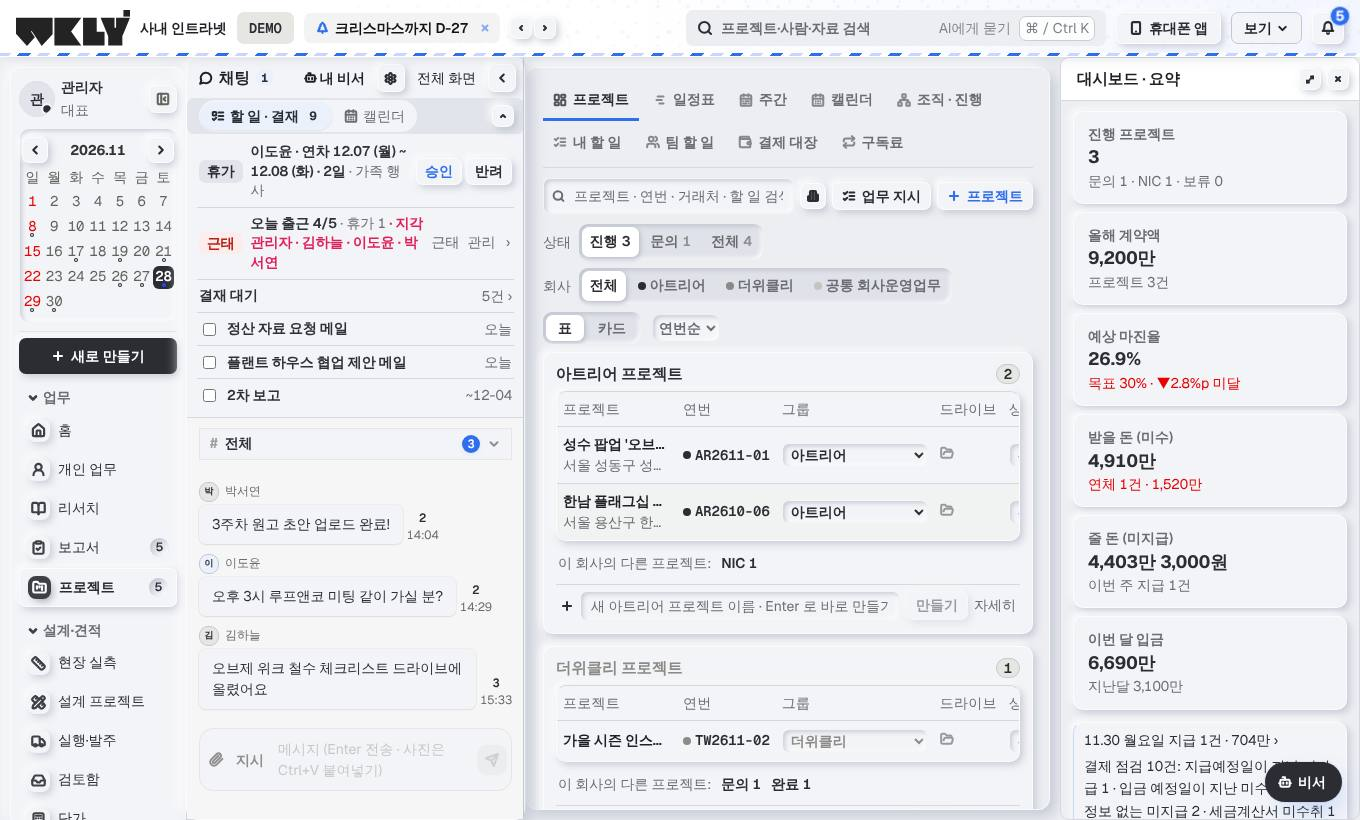
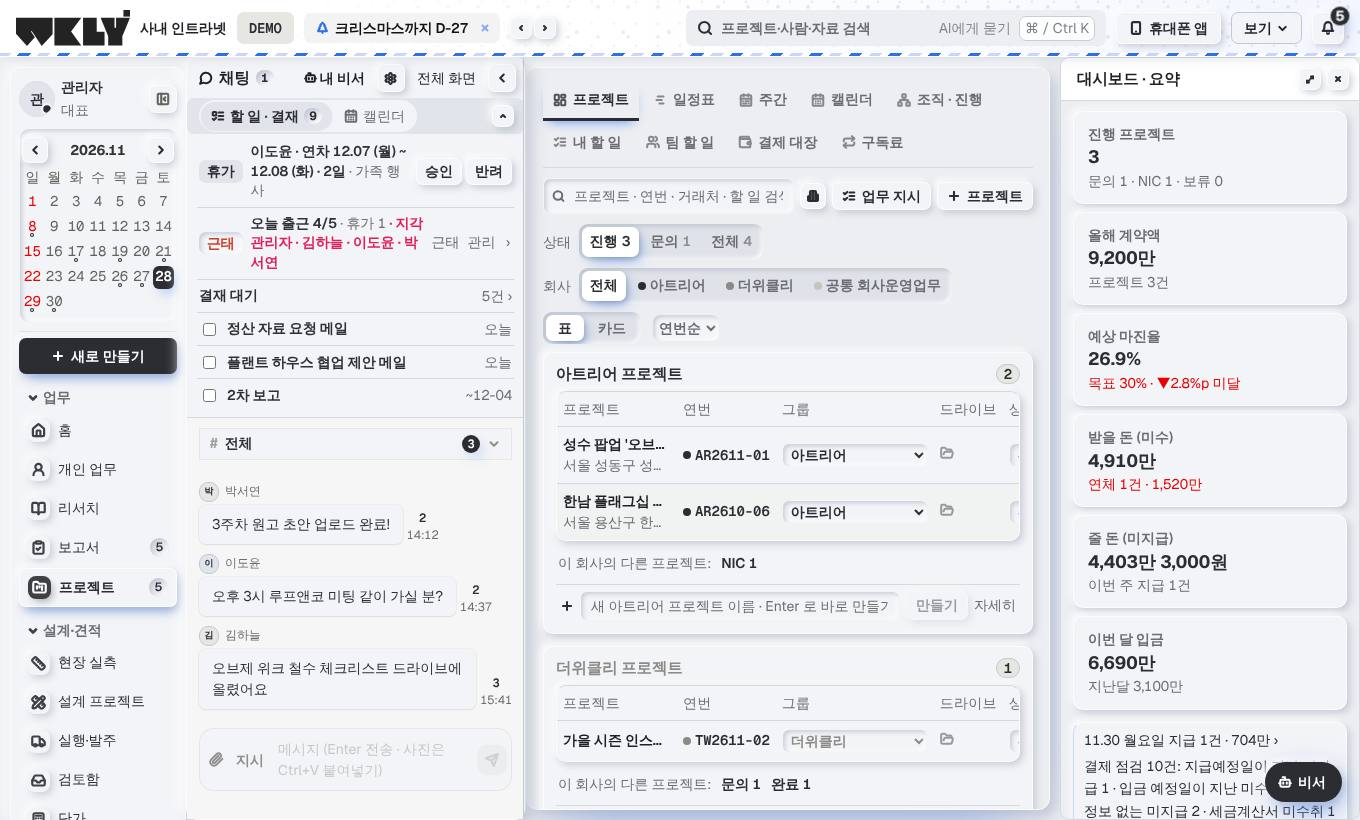
디자인 v9: 모노톤 + 메뉴 색 네온 그림자 · 휴대폰 볼록 오목
- 버튼 · 고른 것 · 숫자 동그라미 · 그래프를 먹색 · 회색으로, 메뉴 색은 그림자 빛으로만
- 색 배지를 회색으로, 빨강은 지연 · 경고 글자만
- 휴대폰 아래 메뉴를 떠 있는 판 + 고른 칸 눌린 홈으로

Claude-Session: https://claude.ai/code/session_01F3gTQwJrgJEzSdbh5GAwru

diff --git a/erp/src/mono.css b/erp/src/mono.css
@@ -315,3 +315,65 @@ html:not([data-theme="dark"]) .app-page .profile .side-item.on > svg { backgroun
 html:not([data-theme="dark"]) .app-page .profile :is(.side-n, .side-item .count) { background: #e1e4ea !important; color: var(--v9-ink) !important; box-shadow: var(--nm-in-sm); }
 html:not([data-theme="dark"]) .app-page .profile :is(.new-btn, .btn-primary) { background: var(--v9-ink) !important; box-shadow: var(--nm-up-sm) !important; }
 html:not([data-theme="dark"]) .app-page .profile button.day.today { background: var(--v9-ink) !important; box-shadow: none; }
+
+/* ================================================================================
+   모노톤 + 네온 그림자 (2026-11-28 대표 '너무 많은 색을 사용하지마 · 전체적으로 모노톤에 그림자를 네온 번지는 효과로 · 각 메뉴마다 다른 색')
+   - 면 · 글자 · 아이콘 · 버튼은 먹색과 회색만. 메뉴 색(--v9-accent)은 **그림자가 번지는 빛**으로만 쓴다(--nm-neon / --nm-neon-sm)
+   - 색 글자 · 색 바탕 버튼 · 색 숫자 동그라미를 쓰지 않는다. 빨강은 지연 · 경고 글자에만
+   ================================================================================ */
+html:not([data-theme="dark"]) {
+  --nm-neon-sm: 4px 6px 14px -5px color-mix(in srgb, var(--v9-accent) 70%, transparent);
+  --nm-neon: 8px 12px 28px -10px color-mix(in srgb, var(--v9-accent) 75%, transparent), 0 0 36px -16px color-mix(in srgb, var(--v9-accent) 80%, transparent);
+  --v9-accent-tint: #e1e4ea; --cal-mine: var(--v9-ink); --cal-mine-tint: #e1e4ea;
+}
+/* 주 버튼 = 먹색 + 메뉴 색 네온 그림자 */
+html:not([data-theme="dark"]) :is(.btn-primary, .new-btn, .today-ok, .btn.primary):not(:disabled) { background: var(--v9-ink) !important; color: #fff !important; box-shadow: var(--nm-up-sm), var(--nm-neon-sm) !important; }
+html:not([data-theme="dark"]) :is(.btn-primary, .new-btn, .today-ok, .btn.primary):not(:disabled):hover { background: #3a3d45 !important; box-shadow: var(--nm-up-sm), var(--nm-neon) !important; }
+html:not([data-theme="dark"]) .app-page .profile :is(.new-btn, .btn-primary) { box-shadow: var(--nm-up-sm), var(--nm-neon-sm) !important; }
+/* 자주 누르는 버튼 · 고른 것 = 먹색 글자, 빛만 메뉴 색 */
+html:not([data-theme="dark"]) :is(.btn-blue, .btn-yellow, .send-btn):not(:disabled) { color: var(--v9-ink); }
+html:not([data-theme="dark"]) :is(.btn-blue, .btn-yellow, .send-btn):not(:disabled):hover { background: var(--nm-face); color: var(--v9-ink); box-shadow: var(--nm-up-sm), var(--nm-neon-sm); }
+html:not([data-theme="dark"]) :is(.btn-outline, .btn-ghost):hover:not(:disabled) { color: var(--v9-ink); box-shadow: var(--nm-up-sm), var(--nm-neon-sm); }
+html:not([data-theme="dark"]) :is(.chip.active, .chip.on, .seg button.on, .right-tabs button.on, .ads-subnav button.active, .ads-nav button.active) { color: var(--v9-ink) !important; font-weight: 600; }
+html:not([data-theme="dark"]) :is(.chip.active, .chip.on, .ads-subnav button.active) { box-shadow: var(--nm-in-sm), var(--nm-neon-sm) !important; }
+html:not([data-theme="dark"]) .ads-nav button.active { box-shadow: var(--nm-up-sm), var(--nm-neon-sm); } html:not([data-theme="dark"]) .ads-nav button.active svg { color: var(--v9-ink); }
+html:not([data-theme="dark"]) :is(.tab.on, .tab.active, .view-tab.on) { border-bottom-color: var(--v9-ink); box-shadow: 0 6px 12px -6px color-mix(in srgb, var(--v9-accent) 80%, transparent); }
+html:not([data-theme="dark"]) :is(.ads-segment, .seg, .right-tabs) button:is(.active, .on) { box-shadow: 1px 2px 5px rgba(120, 128, 148, .45), var(--nm-neon-sm) !important; }
+/* 숫자 동그라미 · 아이콘 칸 = 먹색 */
+html:not([data-theme="dark"]) :is(.bell .count, .m-dot, .q2-badge, .count, .view-tab-n) { background: var(--v9-ink) !important; color: #fff !important; box-shadow: var(--nm-neon-sm) !important; }
+html:not([data-theme="dark"]) .section-head .count, html:not([data-theme="dark"]) .side-n { background: #e1e4ea !important; color: var(--v9-ink) !important; box-shadow: var(--nm-in-sm) !important; }
+html:not([data-theme="dark"]) :is(.ins-icon, .home-kpi-tile) { background: var(--nm-face) !important; color: var(--v9-ink) !important; box-shadow: var(--nm-up-sm); }
+html:not([data-theme="dark"]) :is(.ins-icon, .home-kpi-tile) svg { color: var(--v9-ink) !important; }
+html:not([data-theme="dark"]) .dash-kpi.is-key .dash-kpi-ic { background: var(--v9-ink); color: #fff; box-shadow: var(--nm-neon-sm); }
+html:not([data-theme="dark"]) :is(.section-head, .sec-head)::before { background: var(--v9-ink); box-shadow: 3px 0 10px color-mix(in srgb, var(--v9-accent) 80%, transparent); }
+html:not([data-theme="dark"]) :is(button.day.today, .week-day.today .week-day-h .dd) { background: var(--v9-ink) !important; box-shadow: var(--nm-neon-sm) !important; }
+/* 떠 있는 것의 그림자에 메뉴 색이 번짐: 고른 메뉴 줄 · 오늘 · 가장 중요한 카드 · 올린 카드 · 본문 판 */
+html:not([data-theme="dark"]) .app-page .profile .side-item.on { box-shadow: var(--nm-up-sm), 4px 6px 14px -5px color-mix(in srgb, var(--mc, var(--v9-accent)) 70%, transparent); }
+html:not([data-theme="dark"]) :is(.dash-kpi.is-key, .week-day.today, .dash-day.is-today) { box-shadow: var(--nm-up-sm), var(--nm-neon); }
+html:not([data-theme="dark"]) :is(a.home-kpi, a.dash-kpi, .pc-card, .pboards-item, .proj-card, .sales-pipe-step, .gov-tile, .ai-card):hover { box-shadow: var(--nm-up), var(--nm-neon); }
+html:not([data-theme="dark"]) .app-page .main { box-shadow: var(--nm-up), 0 24px 60px -36px color-mix(in srgb, var(--v9-accent) 85%, transparent); }
+html:not([data-theme="dark"]) :is(.input, .select, .textarea, input, select, textarea):focus { box-shadow: var(--nm-in-sm), 0 0 0 2px color-mix(in srgb, var(--v9-accent) 30%, transparent), var(--nm-neon-sm) !important; }
+html:not([data-theme="dark"]) .ast-fab { box-shadow: var(--nm-up-sm), var(--nm-neon) !important; }
+/* 색 글자 · 색 배지 줄이기: 노랑 · 주황 · 분홍 배지는 회색, 빨강은 글자만 */
+html:not([data-theme="dark"]) :is(.badge, .tag, .pill):not(.red):not(.late):not(.bad) { background: #e1e4ea; color: var(--v9-ink); border-color: transparent; }
+html:not([data-theme="dark"]) :is(.badge.red, .badge.late, .tag.red) { background: var(--nm-face); color: #c8442f; box-shadow: var(--nm-in-sm); border-color: transparent; }
+/* 홈 그래프: 끝낸 일 = 먹색, 마감 예정 = 회색, 지연 = 산호색 하나 — 빛만 메뉴 색 */
+html:not([data-theme="dark"]) :is(.dash-flow-col i.f-done, .dash-legend i.f-done, .dash-vbar-track i.s-active) { background: linear-gradient(160deg, #4a4d57, var(--v9-ink)); box-shadow: 1px 2px 5px -1px color-mix(in srgb, var(--v9-accent) 75%, transparent); }
+html:not([data-theme="dark"]) :is(.dash-flow-col i.f-due, .dash-legend i.f-due) { background: #b9bec9; box-shadow: none; }
+html:not([data-theme="dark"]) .dash-flow-col.is-today i.f-due { background: linear-gradient(160deg, #4a4d57, var(--v9-ink)); box-shadow: 0 0 0 2px color-mix(in srgb, var(--v9-accent) 30%, transparent), 2px 4px 12px color-mix(in srgb, var(--v9-accent) 80%, transparent); }
+html:not([data-theme="dark"]) .dash-flow-col.is-today span { color: var(--v9-ink); }
+
+/* 휴대폰 (2026-11-28 대표 '휴대폰 화면도 볼록 오목 디자인으로'): 아래 메뉴 = 떠 있는 판, 고른 칸 = 눌린 홈 + 메뉴 색 빛 */
+@media (max-width: 760px) {
+  html:not([data-theme="dark"]) .m-nav { background: var(--nm-face) !important; border-top: 1px solid rgba(255, 255, 255, .8) !important; box-shadow: 0 -8px 20px -8px var(--nm-lo) !important; padding-top: 6px; }
+  html:not([data-theme="dark"]) .m-nav > a, html:not([data-theme="dark"]) .m-nav > button { color: #6b6d72 !important; border-radius: 9px; background: transparent !important; }
+  html:not([data-theme="dark"]) .m-nav > .on { background: var(--nm-face) !important; color: var(--v9-ink) !important; font-weight: 600; box-shadow: var(--nm-in-sm), var(--nm-neon-sm); }
+  html:not([data-theme="dark"]) .m-nav svg { stroke-width: 2.1; }
+  html:not([data-theme="dark"]) :is(.m-more, .m-more-grid > a) { background: var(--nm-face); border-color: rgba(255, 255, 255, .7); }
+  html:not([data-theme="dark"]) .m-more { box-shadow: 0 -12px 30px -10px var(--nm-lo); border-radius: 14px 14px 0 0; }
+  html:not([data-theme="dark"]) .m-more-grid > a { box-shadow: var(--nm-up-sm); border-radius: 10px; color: var(--v9-ink); }
+  html:not([data-theme="dark"]) .m-more-grid > a.on { box-shadow: var(--nm-in-sm), var(--nm-neon-sm); }
+  html:not([data-theme="dark"]) .app-page :is(.main, .web-panel) { border-radius: 0 !important; box-shadow: none; border: 0; background: var(--nm-bg); }
+  html:not([data-theme="dark"]) .app-page .topbar { background: var(--nm-face); box-shadow: 0 6px 14px -8px var(--nm-lo); }
+  html:not([data-theme="dark"]) :is(.box, .stat, .kpi, .card, .home-kpi, .today-card, .checkin-card, .brief, .rd-box, .pc-card, .proj-card, .dash-kpi, .dash-card) { box-shadow: 4px 4px 10px var(--nm-lo), -4px -4px 10px var(--nm-hi); }
+}

diff --git a/CLAUDE.md b/CLAUDE.md
@@ -112,7 +112,7 @@ Codex 공동 개발은 끝났다(2026-11-16 종료 · 2026-11-20 대표 지시 '
   - `src/styles.css` : 디자인 토큰 · WKLY v7 디자인 시스템 (사각 모서리, 글자 크기 단계 `--fs-cap 12 · sm 12.5 · body 13.5 · sub 14.5 · title 16 · num 19 · hero 28` (2026-11-09 위계 다시 잡음 · 맨 아래 :root 가 최종값 · 터치 화면은 반 단계 큼))
   - (아래 글자 위계의 굵기 800 · 700 은 2026-11-28 디자인 v9 에서 700 · 600 으로, 색 값은 mono.css 토큰으로 바뀜 — 크기 3단계 · px 직접 쓰지 않기 규칙은 그대로)
   - **글자 위계 (2026-11-17 대표 지시 '전체 공통사항 · 글자 크기는 타이틀 · 본문 · 강조 3가지만 · 색 구분과 볼드 규칙') — 새 화면도 반드시 지킬 것**: `src/type.css` 를 main.tsx 맨 끝에서 읽어 앞의 모든 단계를 덮어씀. 크기 3개 = 타이틀 `--t-title` 18px(제목 · 큰 숫자) · 강조 `--t-em` 15.5px(소제목 · 이름 줄) · 본문 `--t-body` 14px(나머지 전부 — 날짜 · 메타 · 배지 포함, 터치 화면 18.5/16/15) · 예전 토큰은 cap/sm/small/body → 본문, sub → 강조, title/num/hero → 타이틀로 이어짐. CSS 에 px 글자 크기를 새로 쓰지 말고 var(--fs-body | --fs-sub | --fs-title) 만 쓸 것(2026-11-17 에 94곳 바꿈 · 예외는 알림 숫자 동그라미 .side-n · .q2-badge · .bell .count 12px). 굵기 3개 = 800 타이틀 · 700 강조 · 400 본문(500 · 600 · 650 · 750 안 씀 · 76곳 바꿈). 색 = --tx-title #151d18 · --tx-body #222a25 · --tx-sub #535c56(보조는 크기 대신 색으로 낮춤 · --gray 도 이 색) · --tx-key #1f6b4a(누를 수 있는 것 · 고른 것) · 빨강은 지연 · 경고만. 묶음 클래스 .tx-title · .tx-em · .tx-body · .tx-sub · .tx-key. 차트 SVG 글자(charts.tsx 등)는 그대로
-  - **디자인 v9 모노톤 + 네온 빛 (2026-11-28 대표가 핀터레스트 참고 화면 넷을 골라 '이것들을 조합해서 디자인잡아 · 인트라넷 디자인 전체를 변경해 · 모노톤과 네온 효과' → '남은 화면들도 모노톤으로 · 폰트와 디자인규칙까지 모두 변경해 · 대시보드또한 디자인 배치 다시' · '색은 첨부이미지와 같이 네온 효과' · '빛이 새어나가는 효과를 잘 만들어') — 규칙 문서 `erp/docs/DESIGN_V9.md` · 새 화면도 반드시 이 규칙**: `src/mono.css`(main.tsx 맨 끝)가 토큰을 정함. ① 색 = 회색 계열 하나(바탕 #f0f0ee · 흰 카드 · 먹색 #141414 = 고른 것 · 막대) + 네온 파랑 `--v9-accent` #1f4dff 하나 · 빨강 · 노랑은 지연 · 경고만 · 초록 점은 '정상'만 ② 네온 = 가장자리에서 오른쪽 아래로 새어 나가는 파랑 빛 `--glow-1/2/3` · `--neon-soft` — 주 버튼 · 고른 것 · 오늘 · 가장 중요한 숫자 하나 · 누를 수 있는 카드 hover 에만, 글자색으로는 안 씀 ③ 글꼴 = 영문 · 숫자 Geist · 한글 Pretendard · 큰 숫자 · 연번 Geist Mono(구글 폰트 · index.html) · 크기 18 / 15.5 / 14 그대로 + 큰 숫자 `--t-num` 24 · **굵기 700 / 600 / 400**(예전 800 / 700 을 CSS 전체에서 한 단계씩 내림) ④ 모서리 카드 14 · 버튼 10 · 알약 ⑤ 카드 틀 = 회색 머리 + 흰 본문. 같은 날 **모든 CSS 의 굳은 색을 회색으로 바꿈**(초록 · 미색 · 보라 → 같은 밝기 회색 · 파랑 → `--v9-accent` / `-tint` · '화면 어둡게' 규칙 줄은 그대로 · 빨강 · 주황 · 노랑은 그대로) — **새 CSS 에 색 값을 직접 쓰지 말고 토큰을 쓸 것.** 구분 색은 `--div-ar/tw/rs`(먹색 · 회색 · 연회색) · 달력 내 업무는 네온 파랑. 홈 대시보드 새 배치(`pages/Dashboard.tsx` · `.css`): 인사 + 주 버튼 → 숫자 카드 넷(작은 막대 · 아래 설명 줄 · 첫 카드에 빛) → '업무 흐름' 점 격자(지난 2주 끝낸 일 · 앞으로 2주 마감 · 오늘 기둥에 빛 · `lib/dashboard.ts` dayFlow) + 팀원 세로 막대 → 마감이 가까운 프로젝트 표(진행 막대 · 상태 알약) → 앞으로 7일 · 구분별 → 진행 프로젝트 카드. 같은 날 2차 '부드럽게'(대표 '아직 안 바꾼 곳들도 모두 모노톤으로' · '디자인 ui,ux도 바꿔 · 색상의 사용도 수정하고 · 부드러운 느낌'): 새까만 색 대신 부드러운 먹색 `--v9-ink` #2b2d33 · 고른 것은 검은 알약 대신 연한 파랑 바탕 · 자주 누르는 버튼(.btn-blue 등)은 연한 파랑 · 테두리 대신 옅은 그림자 · 카드 18 / 버튼 12 · **styles.css 의 '모든 모서리 0 !important' 고정을 없앰(다시 넣지 말 것)** · 빛은 테 없이 넓게 · 0.2초 전환 · 창 뒤 뿌옇게. 차트(LedgerStats · MarketingFlow) · 화이트보드(미니맵 · 커서 · Excalidraw 색) · 설계(제안 보드 견본 색 · 3D 바닥 · 도면 바탕) · 기념일 장식 띠 · PC 오프라인 화면(desktop/offline.html — 다음 PC 프로그램 릴리스 때 반영)도 회색 + 네온 파랑. 그대로 둔 것: 실제 자재 색(3D · 마감재) · 거래처에 나가는 것(제안서 슬라이드 · 영업 메일 · 카드뉴스 · 광고 이미지). 같은 날 3차 '선명하게 · 메뉴마다 다른 색'(대표 '광고 화면 기간 고르기 칸과 묶음 탭도 고쳐 · 아이콘과 배경들 각각의 카드들의 선구분을 선명하게 · 색은 각 메뉴마다 다른 색' · 참고 Product UI Styleguide): **강조색 `--v9-accent` 는 메뉴마다 다름**(`lib/menuColors.ts` · Shell 이 지금 메뉴 색을 html 에 넣음 · 빛 · 연한 바탕 · 주 버튼은 color-mix 로 계산 — CSS 에 파랑을 직접 쓰지 말 것 · 새 메뉴는 색 한 줄 추가) · 왼쪽 메뉴는 대표 지시로 다시 모노톤(아이콘 · 고른 줄 · 숫자 칸 먹색 — 메뉴 색은 화면 안에서만) · 카드는 흰 바탕 + 1px 선 #dbdbd7 + 옅은 그림자(바탕 #eeeeeb) · 광고 묶음 탭 = 홈 안의 흰 카드 · 기간 고르기 = 알약. 같은 날 4차 '볼록 · 오목'(대표가 뉴모피즘 참고 그림 두 장을 보내 '이 ui도 사용해' · '이것도 넣어'): 면은 바탕과 거의 같은 밝은 회색 · 구분은 왼쪽 위 빛 + 오른쪽 아래 그림자(`--nm-up` 떠 있음 = 카드 · 버튼 / `--nm-in` 눌림 = 입력 칸 · 고른 칩 · 고른 메뉴 줄) · 구간 고르기는 회색 홈 + 흰 알약 · 켜고 끄는 설정은 체크박스에 className `nm-switch`(스위치 모양). 같은 날 5차(대표 '나머지 화면들도 모두 볼록 오목 디자인으로 · 모서리 라운드 좀 더 각지게'): 흰 바탕을 없앰 — `--white` · `--v8-card` 와 모든 CSS 의 흰 바탕 165곳을 `var(--nm-face)` 로(**새 CSS 에 `background: #fff` 를 쓰지 말 것**) · 테두리 있는 묶음 칸 30여 종을 떠 있는 모양으로 · 모서리 카드 10 / 버튼 · 입력 · 칩 7 / 큰 판 12(알약 · 원은 스위치와 숫자 동그라미만). 사용 안내 사진 13장 · 영상 3개 다시 찍음 · 안내 글(guides.ts 두 곳)의 홈 · 할 일(/my) · 일정(/projects?view=calendar)을 새 구조에 맞춤(agent-chat 쪽은 다음 배포 때 반영).
+  - **디자인 v9 모노톤 + 네온 빛 (2026-11-28 대표가 핀터레스트 참고 화면 넷을 골라 '이것들을 조합해서 디자인잡아 · 인트라넷 디자인 전체를 변경해 · 모노톤과 네온 효과' → '남은 화면들도 모노톤으로 · 폰트와 디자인규칙까지 모두 변경해 · 대시보드또한 디자인 배치 다시' · '색은 첨부이미지와 같이 네온 효과' · '빛이 새어나가는 효과를 잘 만들어') — 규칙 문서 `erp/docs/DESIGN_V9.md` · 새 화면도 반드시 이 규칙**: `src/mono.css`(main.tsx 맨 끝)가 토큰을 정함. ① 색 = 회색 계열 하나(바탕 #f0f0ee · 흰 카드 · 먹색 #141414 = 고른 것 · 막대) + 네온 파랑 `--v9-accent` #1f4dff 하나 · 빨강 · 노랑은 지연 · 경고만 · 초록 점은 '정상'만 ② 네온 = 가장자리에서 오른쪽 아래로 새어 나가는 파랑 빛 `--glow-1/2/3` · `--neon-soft` — 주 버튼 · 고른 것 · 오늘 · 가장 중요한 숫자 하나 · 누를 수 있는 카드 hover 에만, 글자색으로는 안 씀 ③ 글꼴 = 영문 · 숫자 Geist · 한글 Pretendard · 큰 숫자 · 연번 Geist Mono(구글 폰트 · index.html) · 크기 18 / 15.5 / 14 그대로 + 큰 숫자 `--t-num` 24 · **굵기 700 / 600 / 400**(예전 800 / 700 을 CSS 전체에서 한 단계씩 내림) ④ 모서리 카드 14 · 버튼 10 · 알약 ⑤ 카드 틀 = 회색 머리 + 흰 본문. 같은 날 **모든 CSS 의 굳은 색을 회색으로 바꿈**(초록 · 미색 · 보라 → 같은 밝기 회색 · 파랑 → `--v9-accent` / `-tint` · '화면 어둡게' 규칙 줄은 그대로 · 빨강 · 주황 · 노랑은 그대로) — **새 CSS 에 색 값을 직접 쓰지 말고 토큰을 쓸 것.** 구분 색은 `--div-ar/tw/rs`(먹색 · 회색 · 연회색) · 달력 내 업무는 네온 파랑. 홈 대시보드 새 배치(`pages/Dashboard.tsx` · `.css`): 인사 + 주 버튼 → 숫자 카드 넷(작은 막대 · 아래 설명 줄 · 첫 카드에 빛) → '업무 흐름' 점 격자(지난 2주 끝낸 일 · 앞으로 2주 마감 · 오늘 기둥에 빛 · `lib/dashboard.ts` dayFlow) + 팀원 세로 막대 → 마감이 가까운 프로젝트 표(진행 막대 · 상태 알약) → 앞으로 7일 · 구분별 → 진행 프로젝트 카드. 같은 날 2차 '부드럽게'(대표 '아직 안 바꾼 곳들도 모두 모노톤으로' · '디자인 ui,ux도 바꿔 · 색상의 사용도 수정하고 · 부드러운 느낌'): 새까만 색 대신 부드러운 먹색 `--v9-ink` #2b2d33 · 고른 것은 검은 알약 대신 연한 파랑 바탕 · 자주 누르는 버튼(.btn-blue 등)은 연한 파랑 · 테두리 대신 옅은 그림자 · 카드 18 / 버튼 12 · **styles.css 의 '모든 모서리 0 !important' 고정을 없앰(다시 넣지 말 것)** · 빛은 테 없이 넓게 · 0.2초 전환 · 창 뒤 뿌옇게. 차트(LedgerStats · MarketingFlow) · 화이트보드(미니맵 · 커서 · Excalidraw 색) · 설계(제안 보드 견본 색 · 3D 바닥 · 도면 바탕) · 기념일 장식 띠 · PC 오프라인 화면(desktop/offline.html — 다음 PC 프로그램 릴리스 때 반영)도 회색 + 네온 파랑. 그대로 둔 것: 실제 자재 색(3D · 마감재) · 거래처에 나가는 것(제안서 슬라이드 · 영업 메일 · 카드뉴스 · 광고 이미지). 같은 날 3차 '선명하게 · 메뉴마다 다른 색'(대표 '광고 화면 기간 고르기 칸과 묶음 탭도 고쳐 · 아이콘과 배경들 각각의 카드들의 선구분을 선명하게 · 색은 각 메뉴마다 다른 색' · 참고 Product UI Styleguide): **강조색 `--v9-accent` 는 메뉴마다 다름**(`lib/menuColors.ts` · Shell 이 지금 메뉴 색을 html 에 넣음 · 빛 · 연한 바탕 · 주 버튼은 color-mix 로 계산 — CSS 에 파랑을 직접 쓰지 말 것 · 새 메뉴는 색 한 줄 추가) · 왼쪽 메뉴는 대표 지시로 다시 모노톤(아이콘 · 고른 줄 · 숫자 칸 먹색 — 메뉴 색은 화면 안에서만) · 카드는 흰 바탕 + 1px 선 #dbdbd7 + 옅은 그림자(바탕 #eeeeeb) · 광고 묶음 탭 = 홈 안의 흰 카드 · 기간 고르기 = 알약. 같은 날 4차 '볼록 · 오목'(대표가 뉴모피즘 참고 그림 두 장을 보내 '이 ui도 사용해' · '이것도 넣어'): 면은 바탕과 거의 같은 밝은 회색 · 구분은 왼쪽 위 빛 + 오른쪽 아래 그림자(`--nm-up` 떠 있음 = 카드 · 버튼 / `--nm-in` 눌림 = 입력 칸 · 고른 칩 · 고른 메뉴 줄) · 구간 고르기는 회색 홈 + 흰 알약 · 켜고 끄는 설정은 체크박스에 className `nm-switch`(스위치 모양). 같은 날 5차(대표 '나머지 화면들도 모두 볼록 오목 디자인으로 · 모서리 라운드 좀 더 각지게'): 흰 바탕을 없앰 — `--white` · `--v8-card` 와 모든 CSS 의 흰 바탕 165곳을 `var(--nm-face)` 로(**새 CSS 에 `background: #fff` 를 쓰지 말 것**) · 테두리 있는 묶음 칸 30여 종을 떠 있는 모양으로 · 모서리 카드 10 / 버튼 · 입력 · 칩 7 / 큰 판 12(알약 · 원은 스위치와 숫자 동그라미만). **같은 날 최종 규칙(대표 '너무 많은 색을 사용하지마 · 전체적으로 모노톤에 그림자를 네온 번지는 효과로 · 각 메뉴마다 다른 색' · '휴대폰 화면도 볼록 오목'): 면 · 글자 · 아이콘 · 버튼 · 숫자 동그라미는 먹색과 회색만, 메뉴 색(`--v9-accent`)은 그림자가 번지는 빛(`--nm-neon` · `--nm-neon-sm`)으로만 쓴다 — 색 글자 · 색 바탕 버튼 · 색 배지를 새로 만들지 말 것. 빨강(산호색)은 지연 · 경고만. 휴대폰 아래 메뉴도 떠 있는 판 + 고른 칸 눌린 홈.** 사용 안내 사진 13장 · 영상 3개 다시 찍음 · 안내 글(guides.ts 두 곳)의 홈 · 할 일(/my) · 일정(/projects?view=calendar)을 새 구조에 맞춤(agent-chat 쪽은 다음 배포 때 반영).
   - 디자인 v8 (2026-11-16 대표 지시 '인트라넷 디자인 개선해' · Houzz Pro 스타일 계획 문서 1단계): `src/refresh.css` 를 main.tsx 맨 끝에서 읽음 — 따뜻한 미색 바탕(#f6f4ef) · 흰 작업 칸 · 둥근 모서리(카드 12 · 버튼·입력 8 · 태그 알약, v7 의 '모두 사각'을 덮어씀) · 흰 위쪽 바(초록 로고) · 테두리 없는 메뉴(고른 줄 흰 칸) · 밑줄 탭 · 가로선만 표 · 연한 배지 · 글꼴 Pretendard(jsdelivr · 무료) + 숫자도 같은 글꼴 고정폭. 색은 `html:not([data-theme=dark])` 에만 → '화면 어둡게'는 그대로. 새 화면은 --v8-* 토큰을 쓸 것. import 한 줄을 빼면 v7 로 돌아감
   - 실행 내역 엑셀 읽기 (2026-11-17 대표 우선순위 3 '실제 프로젝트로 검증'): `lib/designCost.ts` parseCostSheet 가 회사 '실행집행 내역서' 양식(구분 · 견적 항목 · 실행 내역 · 단위 · 수량 · 실행 단가 · 실행 금액 · 발주처 · 근거·확인)도 읽음 — 품목 = 실행 내역, 구분 · 견적 항목은 아래 줄로 이어 씀(견적 항목은 비고 앞 [ ]), 단위 저장, 발주처 '미정 · 내부 · —'는 업체 없음. 예전엔 '실행 단가' 머리 줄을 못 알아봐 '실행 내역을 찾지 못했습니다'가 났음. 시험 tests/design-cost.test.ts. 11/17 로제코(AR2610-08) 설계 프로젝트에 실물 60줄 · 49,703,600원 넣어 확인(openpyxl 계산과 일치 · 견적 공급가 6,000만 대비 실행 82.8%). 조달청 물가 기준은 이 견적처럼 인건비(인) · 식 단위가 많으면 0/60 매칭 → 시중노임단가 기준이 다음 과제
   - 사진 카드 (2026-11-17 대표 우선순위 1 'Houzz Pro 식 화면 개편'): 프로젝트 카드(홈 · 프로젝트 '카드' 보기 · `components/ProjectCards.tsx`) 맨 위 16:10 대표 사진 + 사진 위 구분 알약 · 남은 기간, 사진 없으면 구분 색 바탕에 연번. 프로젝트 상세 머리 아래 표지 사진(`ProjectCoverBanner` · 사진 있을 때만). 홈 숫자 카드 4개 왼쪽 아이콘 타일. 사진은 서버 함수 `project-covers`(verify_jwt false · x-sync-key = GDRIVE_SYNC_KEY · 10분마다 cron project_covers → private.project_covers_tick)가 drive_index 사진 중 하나를 골라(`project-covers/cover.ts` pickCover: 준공 · 촬영 > 투시도 · 렌더 · 성과물 그래픽 > 현장 사진(상권조사 제외) > 컨셉 · 시안 > 기타 · 계약 · 견적 · 통장 · 명함 · 캡처 · 로고 · 슬랙 · 카톡 제외 · 60KB 이상) 드라이브 미리보기(긴 변 800px)만 비공개 보관함 project-covers 에 넣음 · 표 public.project_covers(활성 팀원 읽기 · 쓰기는 서버만 · source auto|manual · 자동은 3일마다 다시 고름) · api.projectCovers()(서명 주소 1시간 · signedUrlCache) · 체험 모드는 사진 없음. 20261117201000_project_covers. 시험 `npm run test:covers`

diff --git a/erp/docs/DESIGN_V9.md b/erp/docs/DESIGN_V9.md
@@ -81,3 +81,10 @@
 - 모서리: 카드 10 · 버튼 · 입력 7 · 칩 · 태그 7 · 큰 판(본문 · 메뉴) 12. 알약(999px) · 원은 스위치와 숫자 동그라미에만.
 
 - (2026-11-28 대표 '이거는 모노톤으로') **왼쪽 메뉴는 모노톤**: 아이콘 · 고른 줄 · 숫자 칸 · '새로 만들기'는 먹색 · 회색만. 메뉴 색은 그 화면 안(주 버튼 · 고른 것 · 그래프)에서만 쓴다.
+
+## 최종 규칙: 모노톤 + 네온 그림자 (2026-11-28 대표 '너무 많은 색을 사용하지마 · 전체적으로 모노톤에 그림자를 네온 번지는 효과로 · 각 메뉴마다 다른 색' — 위의 앞선 규칙과 다르면 이 절이 우선)
+
+- 면 · 글자 · 아이콘 · 버튼 · 숫자 동그라미 · 그래프 막대는 **먹색과 회색만**. 색 글자 · 색 바탕 버튼 · 색 배지를 만들지 않는다. 빨강(산호색)은 지연 · 경고에만.
+- 메뉴 색(`--v9-accent` · `lib/menuColors.ts`)은 **그림자가 번지는 빛**으로만: `--nm-neon-sm`(주 버튼 · 고른 것 · 오늘) · `--nm-neon`(가장 중요한 카드 · 올린 카드 · 본문 판 아래).
+- 주 버튼 = 먹색 바탕 + 흰 글자 + 네온 그림자. 고른 칩 = 눌린 홈 + 먹색 굵은 글자 + 네온 그림자.
+- 휴대폰도 같은 규칙: 아래 메뉴는 떠 있는 판, 고른 칸은 눌린 홈 + 네온 그림자, 본문은 판 없이 바탕 위에 카드.
